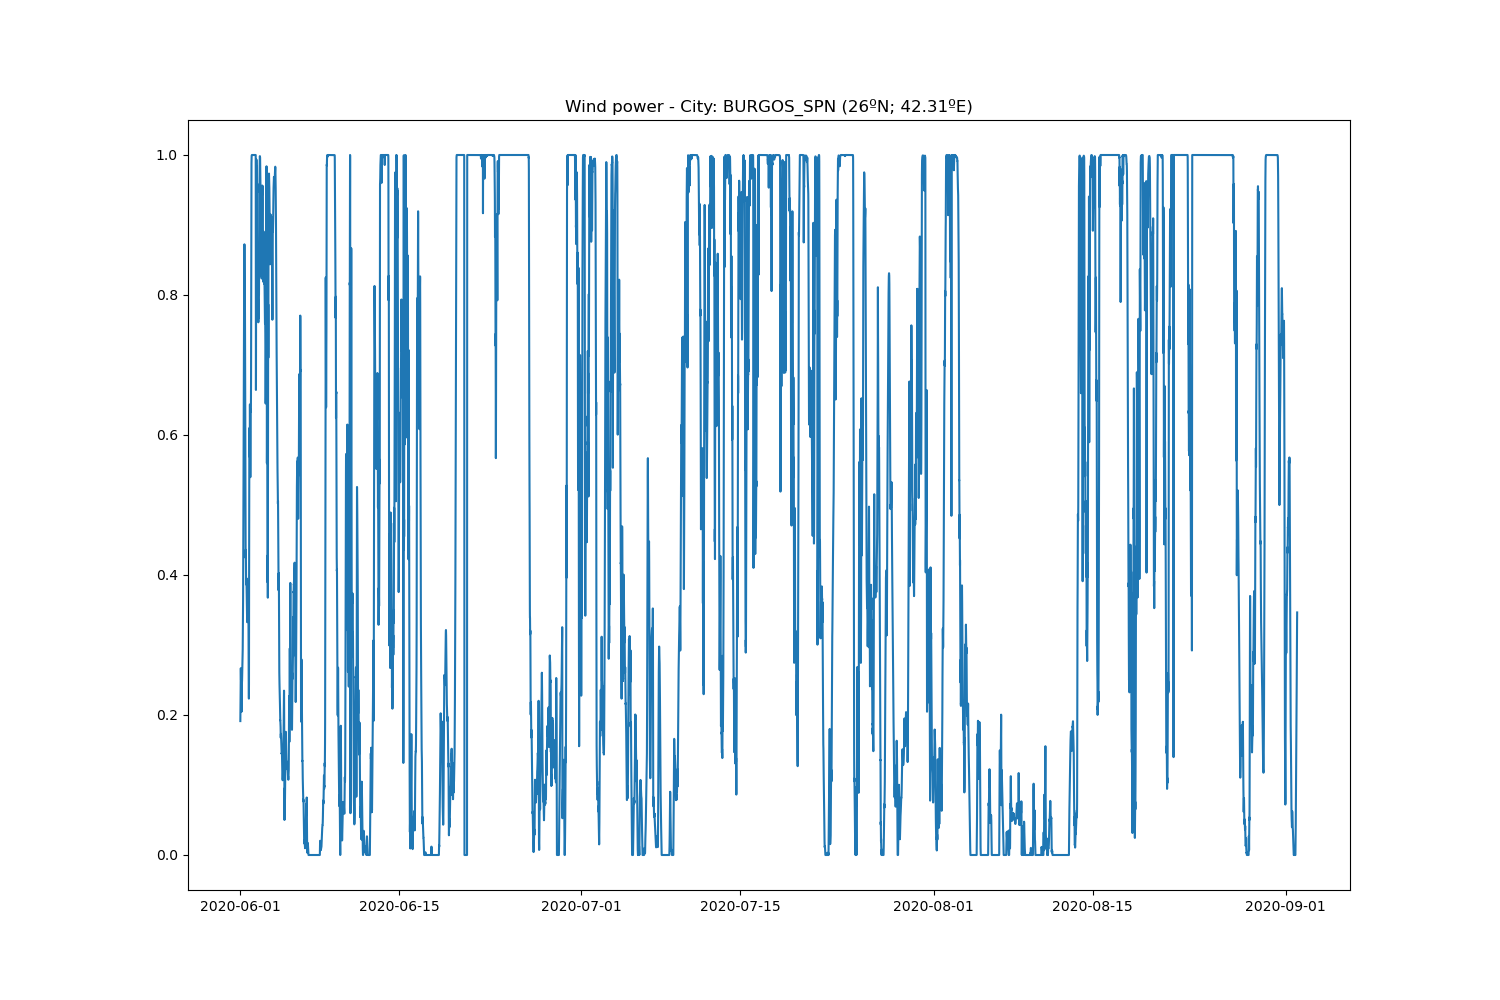
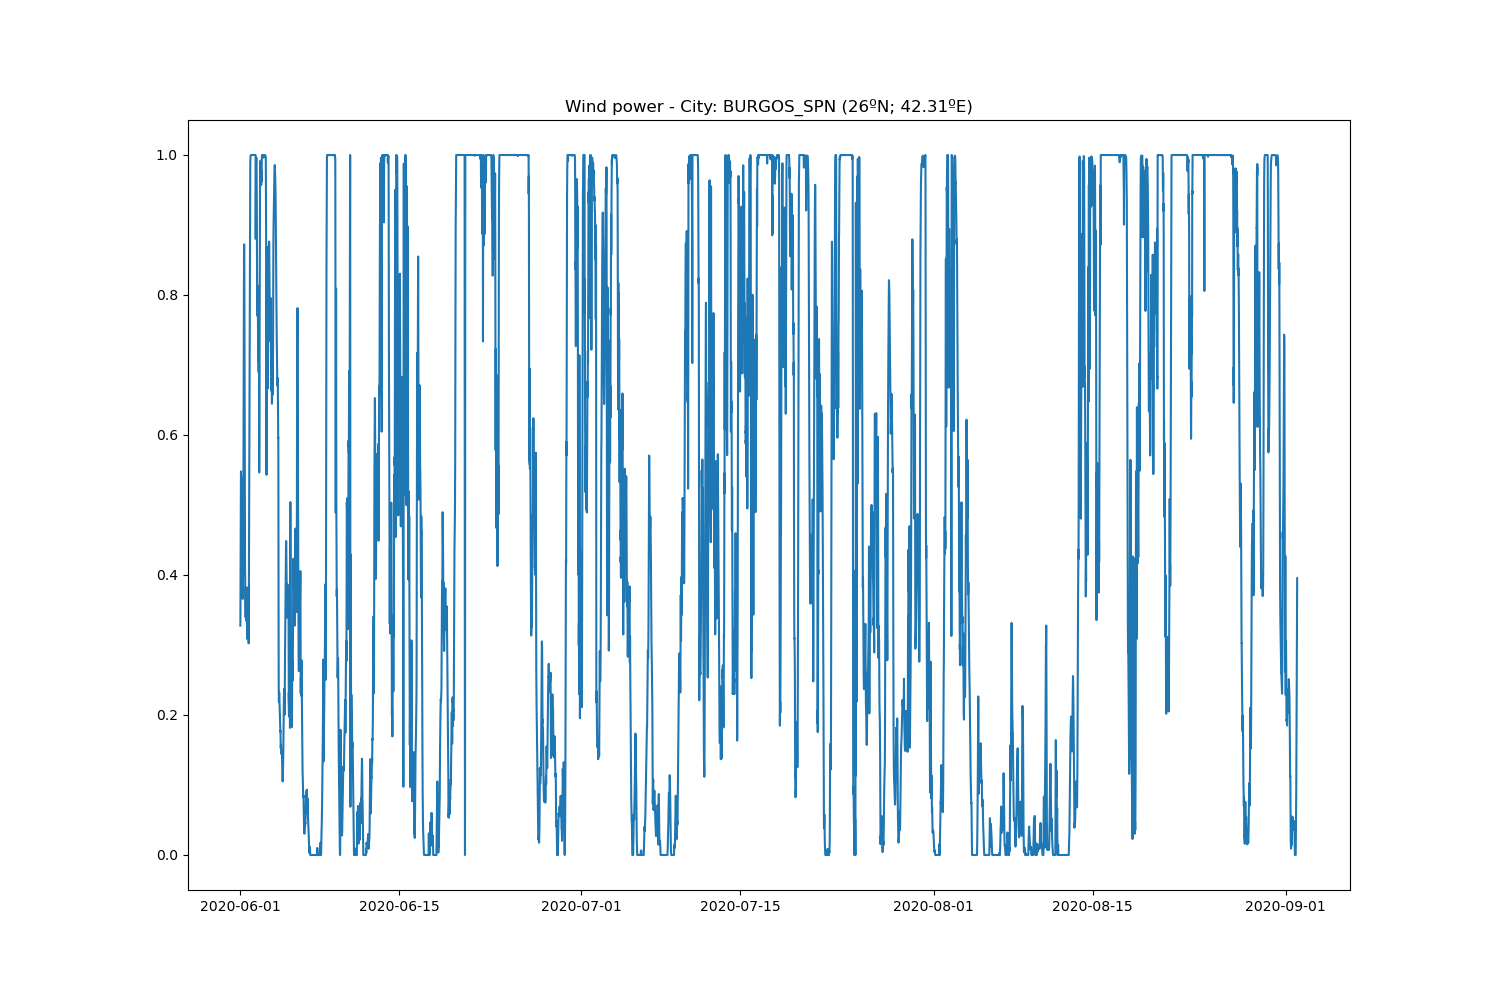
.

Changed region(s): [[0.1533, 0.155, 0.8893, 0.868]]

diff --git a/model_power.py b/model_power.py
@@ -8,7 +8,7 @@ import dask.array as da
 station = 25 ## Burgos
 date_ini = '2020-06-01'
 date_end = '2020-09-01'
-level = 120
+level = 125
 type = 'high-wind'
 
 ## Each of the 3IFS runs (2.8km.4km,9km) is stored in one zarr
@@ -18,8 +18,8 @@ ds = xr.open_zarr('/work/bm1235/a270046/cycle2-sync/ddh_output/4km') ## xarray D
 city = list(zip(ds.station_name.values,ds.station.values,ds.lat.values,ds.lon.values))[station]
 
 ## it is best to select the station of interest first, and other limits in dimensions
-u_station = ds.u.sel(time = slice(date_ini,date_end), station = station).sel(level = level)
-v_station = ds.v.sel(time = slice(date_ini,date_end), station = station).sel(level = level)
+u_station = ds.u.sel(time = slice(date_ini,date_end), station = station, level = level)
+v_station = ds.v.sel(time = slice(date_ini,date_end), station = station, level = level)
 wind_station = np.sqrt(u_station**2 + v_station**2)
 
 ## Wind to Power
